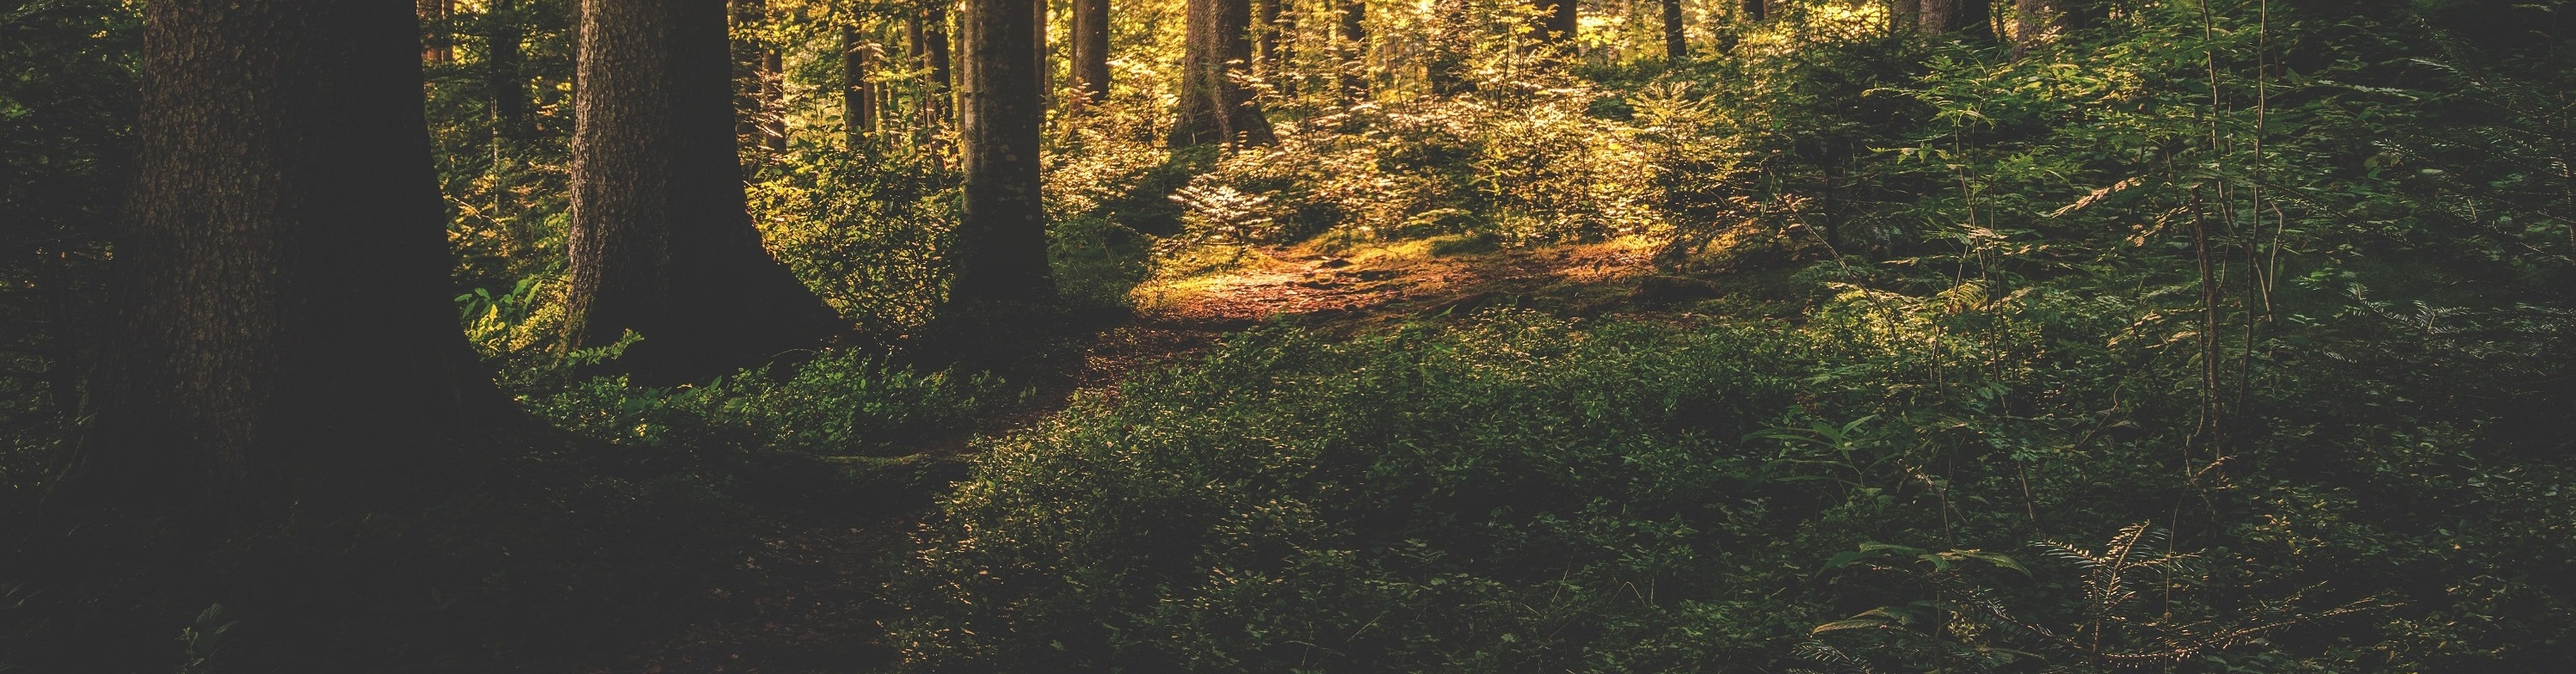
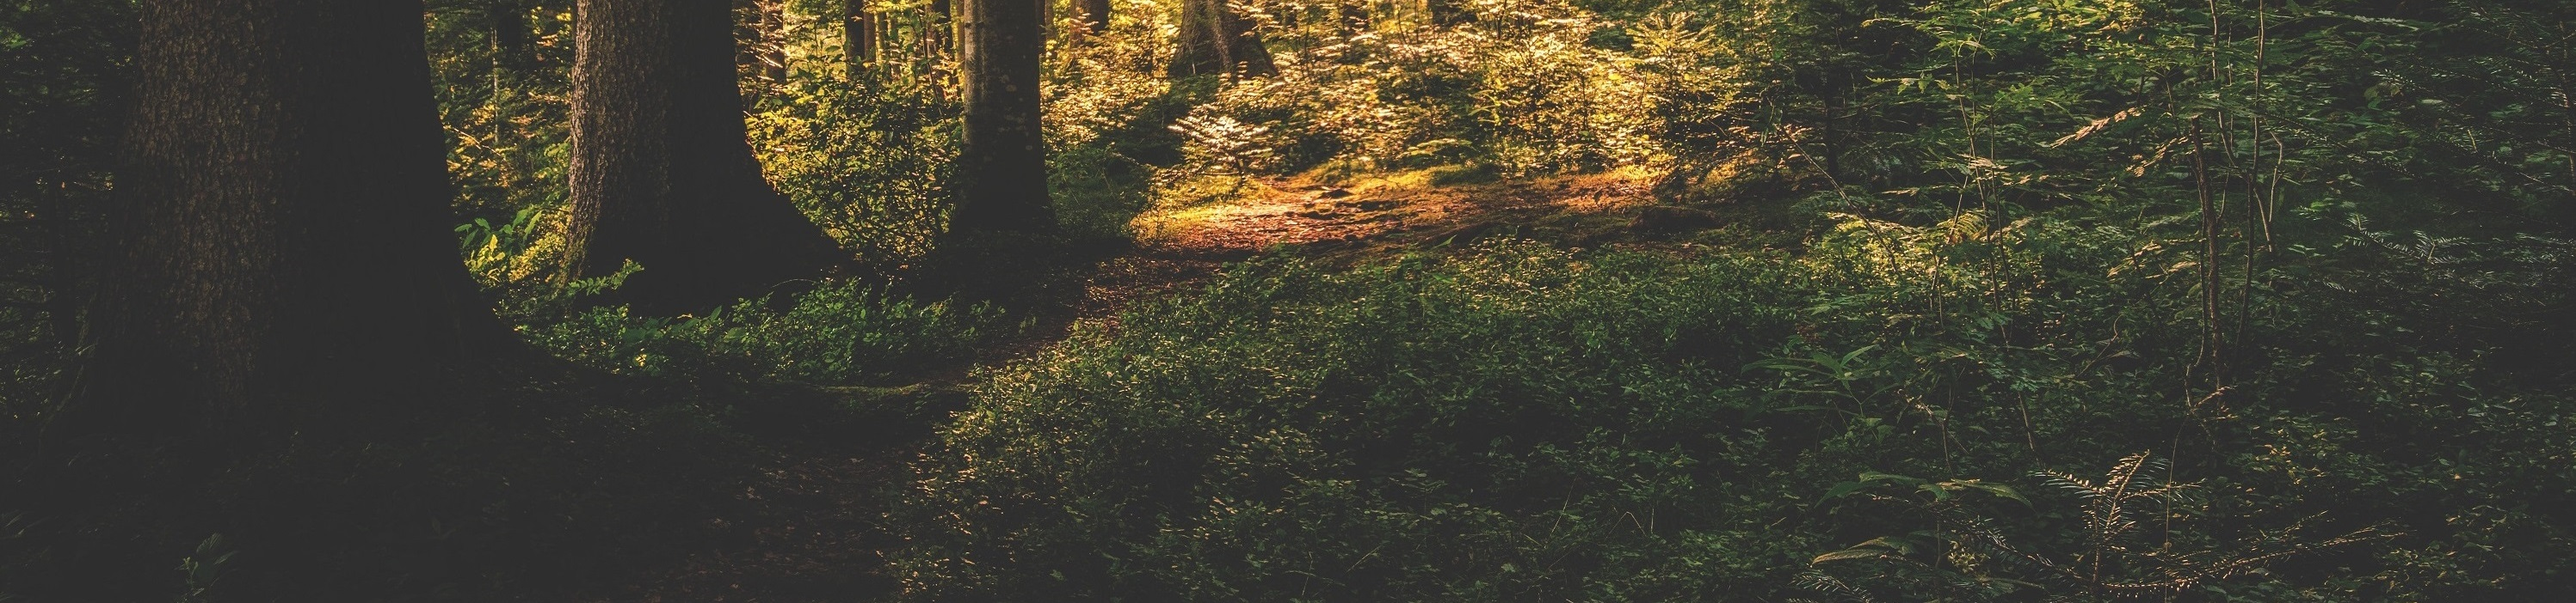
Update hero-image.jpeg and its animation

diff --git a/assets/css/style.css b/assets/css/style.css
@@ -74,8 +74,8 @@ nav ul li {
     width: 100%;
     height: 500px;
     animation: hero-pan;
-    animation-delay: 500ms;
-    animation-duration: 10s;
+    animation-delay: 700ms;
+    animation-duration: 7s;
     animation-fill-mode: forwards;
 }
 
@@ -103,7 +103,7 @@ nav ul li {
     right: 55px;
 }
 
-/* why join us? */
+/* why join us? section */
 
 #why-join-header {
     font-size: 275%;
